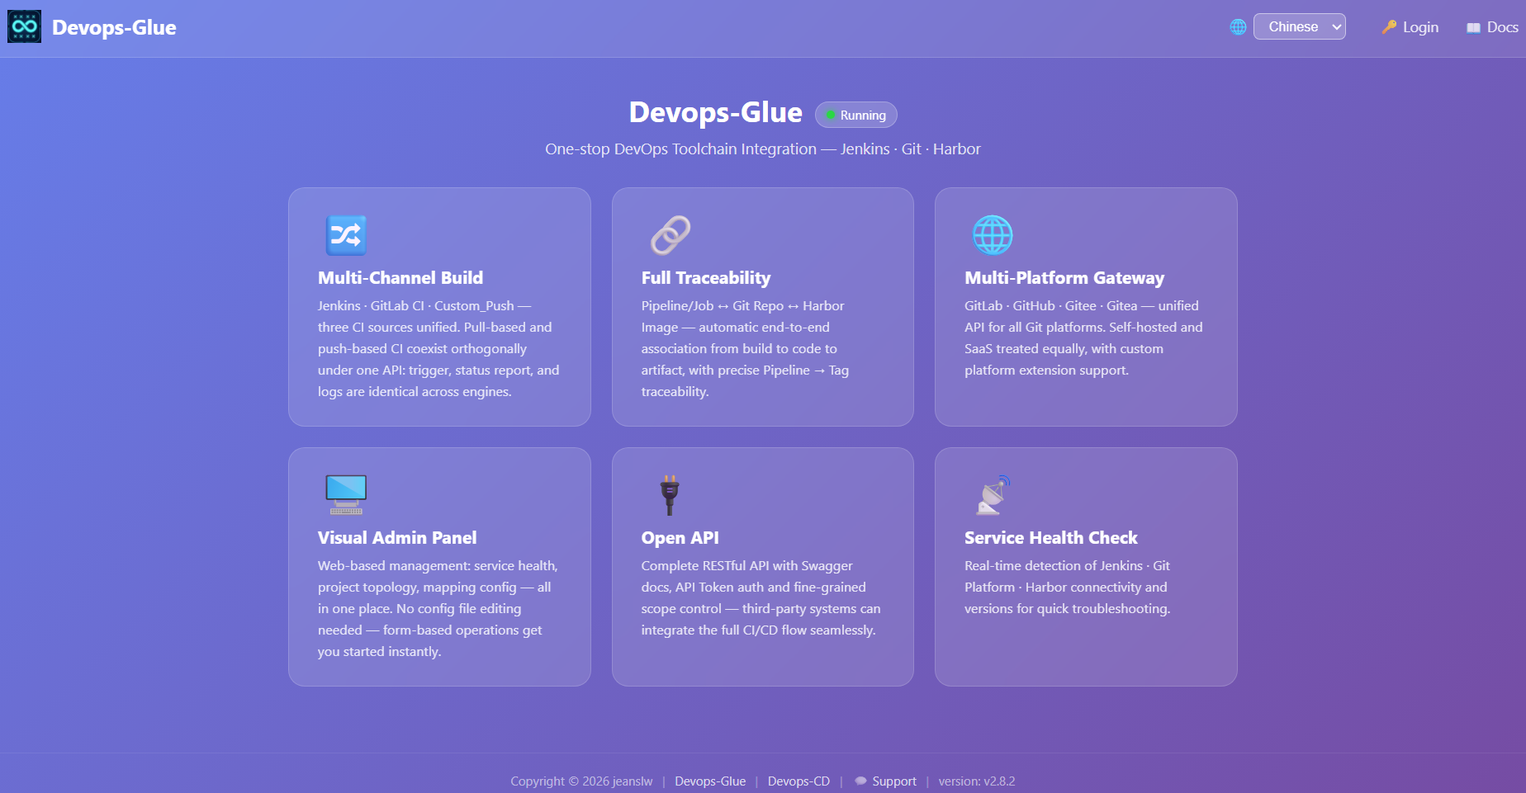
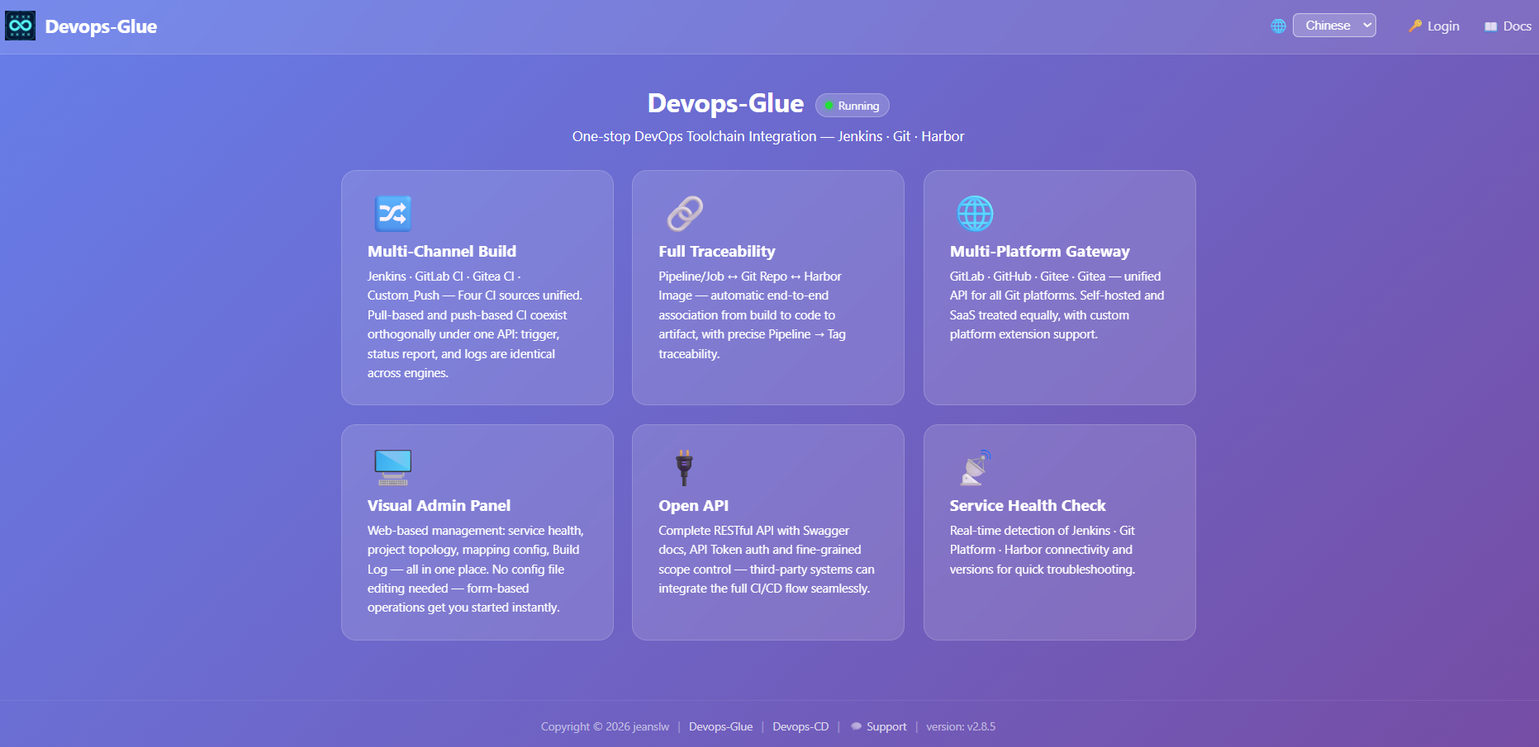
docs: 架构图四框(Gitea CI/Custom Push/User CI) + 部署拓扑/裸机部署 + 中英文 changelog + API 文档重命名
- 整体数据流图 CI 层补 Gitea CI 与 Custom Push 框、框外 User CI（中英同步）
- 部署拓扑（分布式）章节补裸机部署：cron 调度两个 CLI + nginx 配置要点
- 中英文 changelog 补 v2.8.5；管理员手册定时任务说明补容器/裸机两种分支
- API_Documents.md 重命名为 API_Reference.md（同步 Technical-Guide 引用）
- 更新系统运行截图 + 常见问题标题版本号 + 版本表格补 v2.8.4

diff --git a/docs/架构全景图.md b/docs/架构全景图.md
@@ -11,11 +11,11 @@
 ┌─────────────────────────────────────────────────────────────┐
 │                     CI 层：Devops-Glue API (PHP)            │
 │                                                             │
-│  ┌──────────────┐  ┌──────────────┐   ┌──────────────┐      │
-│  │   Jenkins    │  │  GitLab CI   │   │   自定义 CI  │      │
-│  │ BuildProvider│  │ BuildProvider│   │ BuildProvider│      │
-│  └──────┬───────┘  └──────┬───────┘   └──────┬───────┘      │
-│         └─────────────────┼─────────────────┘               │
+│  ┌──────────────┐  ┌──────────────┐   ┌──────────────┐      │  ┌───────────────┐
+│  │   Jenkins    │  │  GitLab CI   │   │   Gitea CI   │      │  │  Custom Push  │ ← User CI
+│  │ BuildProvider│  │ BuildProvider│   │ BuildProvider│      │  │ (custom_push) │   (推送方)
+│  └──────┬───────┘  └──────┬───────┘   └──────┬───────┘      │  └───────┬───────┘
+│         └─────────────────┼──────────────────┼──────────────<──────────┼          
 │                           ↓                                 │
 │              Build → Docker Image → Harbor Registry         │
 │                           ↓                                 │
@@ -65,6 +65,60 @@
 > **数据库选型**：PHP CI 和 CD Service 必须使用同一个数据库实例。
 > - **SQLite**：零配置，适合单机开发/测试。容器部署时必须将 `config/data/` 目录挂载为共享卷，确保两边进程能访问同一个 `.db` 文件。
 > - **MySQL 8.0+ / MariaDB 10.4+**：推荐生产环境使用，支持并发读写，无需共享卷。
+
+## 部署拓扑（分布式）
+
+CI Web 层**无状态**——token 鉴权（无 `$_SESSION`），所有状态都在共享数据库，因此可水平扩展。唯一需要单实例的是定时任务（`tag-cleanup` / `tag-backfill`），已拆分到独立的 worker 容器。
+
+### 单镜像、双角色
+
+`devops-glue:latest` 镜像包含全部内容（nginx + php-fpm + supervisor + 应用代码 + CLI 脚本）。同一镜像以两种角色运行，唯一区别是挂载到 `/etc/supervisor/conf.d/supervisord.conf` 的 supervisor 配置不同：
+
+| 服务 | 挂载的 supervisor 配置 | 运行的程序 | 端口 |
+|---|---|---|---|
+| `devops-glue`（web） | `supervisord.conf` | nginx + php-fpm | 8080 |
+| `devops-glue-worker`（worker） | `supervisord-worker.conf` | tag-cleanup + tag-backfill | — |
+
+两者走同一 entrypoint（`db-init` 重试 → `exec supervisord`）、共享同一数据库（SQLite 用 `data/db`，或 MySQL 实例），各自运行独立的 supervisor 进程——因此扩展 web 层绝不会复制定时任务。
+
+### 分布式定时任务锁
+
+为保证即使误起多个 worker 副本，同一时刻也只有一个实例执行，两个 CLI 脚本在执行前都会在 `cache` 表获取**租约锁**（`Database::tryAcquireLock` / `releaseLock`）：
+
+- 锁键为 `cache_key = 'lock:tag-cleanup'` / `'lock:tag-backfill'`，跨实例共享（MySQL 多实例，或 SQLite 共享单文件）。
+- 抢占时先删除已过期租约，再用普通 `INSERT` 写入自己的租约——唯一键冲突说明他者持有有效锁 → 退出 0（跳过）。
+- 租约在 TTL（600s）后自动过期，持有者崩溃也不会死锁调度；释放按 token 精确匹配，超时被接管后不会误删新持有者的锁。
+
+```
+                 devops-glue × N（nginx + php-fpm，无状态）   ← 水平扩展
+                          │
+                          ▼  共享数据库（MySQL / SQLite）
+        devops-glue-worker × 1（tag-cleanup + tag-backfill，DB 锁）
+```
+
+> **SQLite**：仍是单文件数据库——挂载一个共享 `data/db` 卷；锁经同一文件的 WAL busy-timeout 串行化。多实例真并发建议用 MySQL。
+
+### 裸机部署（Bare-metal）
+
+不依赖 Docker/supervisord 时，部署分两块：
+
+- **Web 层**：常规 nginx + php-fpm（无状态、可水平扩展）。`nginx` 的 `root` 指向项目根 `public/`（唯一入口 `index.php`），`try_files` 重写到 `index.php` 走 Slim 路由，PHP 请求经 fastcgi 转发到 php-fpm。仓库内 `config/docker/nginx.conf` 即现成模板，把容器路径 `/app` 换成实际部署路径即可。
+- **定时任务**：容器里由 worker 的 supervisord sleep-loop 驱动，裸机改用系统 cron（或 systemd timer）定时调用两个 CLI：
+
+```cron
+# 每小时清理过期 tag（对应 TAG_CLEANUP_INTERVAL，默认 3600s）
+0 * * * * www-data php /opt/devops-glue/cli/cleanup-pipeline-tags.php >> /var/log/devops-glue/tag-cleanup.log 2>&1
+# 每 30 分钟回填日志 tag（对应 TAG_BACKFILL_INTERVAL，默认 1800s）
+*/30 * * * * www-data php /opt/devops-glue/cli/backfill-pipeline-tags.php >> /var/log/devops-glue/tag-backfill.log 2>&1
+```
+
+注意事项：
+
+- **开关默认关闭**：两任务受后台开关 `stale_tag_cleanup_enabled` / `backfill_tag_enabled` 控制（默认关），须先在「平台配置」页开启，否则 CLI 打印「跳过」并退出 0。
+- **运行用户**：须与 Web 进程（php-fpm）同用户（如 `www-data`），否则 root 先跑会创建 root 属主的 SQLite 库文件，导致 Web 侧写入失败。
+- **env 加载**：CLI 经 `cli/bootstrap.php` 自动加载 `config/app.env`（路径相对 `__DIR__`，不依赖工作目录），crontab 无需 `cd`。
+- **分布式锁兜底**：CLI 内置 `cache` 表租约锁，即使误配多份 cron 或与容器 worker 混跑，同一时刻也只一个实例执行，抢不到锁直接退出 0。
+- **日志目录**：重定向的日志目录须对运行用户可写。
 
 ## CI 构建模式：Pull-based 与 Push-based
 

diff --git a/docs/ARCHITECTURE.md b/docs/ARCHITECTURE.md
@@ -12,8 +12,8 @@
 │                  CI LAYER：Devops-Glue API (PHP)            │
 │                                                             │
 │  ┌──────────────┐  ┌──────────────┐   ┌──────────────┐      │  ┌───────────────┐
-│  │   Jenkins    │  │  GitLab CI   │   │   Gitea CI   │      │  │  Custom Push  │
-│  │ BuildProvider│  │ BuildProvider│   │ BuildProvider│      │  │               │
+│  │   Jenkins    │  │  GitLab CI   │   │   Gitea CI   │      │  │  Custom Push  │ ← User CI
+│  │ BuildProvider│  │ BuildProvider│   │ BuildProvider│      │  │ (custom_push) │  (pusher)
 │  └──────┬───────┘  └──────┬───────┘   └──────┬───────┘      │  └───────┬───────┘
 │         └─────────────────┼──────────────────┼──────────────<──────────┼          
 │                           ↓                                 │
@@ -64,6 +64,60 @@
 > **Database Selection**: PHP CI and CD Service must use the same database instance.
 > - **SQLite**: Zero-configuration, suitable for single-host development/testing. For container deployments, mount the `config/data/` directory as a shared volume so both processes can access the same `.db` file.
 > - **MySQL 8.0+ / MariaDB 10.4+**: Recommended for production. Supports concurrent reads and writes, no shared volume required.
+
+## Deployment Topology (Distributed)
+
+The CI web layer is **stateless** — token auth (no `$_SESSION`), all state in the shared DB — so it can scale out horizontally. The only single-instance part is the scheduled timer jobs (`tag-cleanup` / `tag-backfill`), moved into a dedicated worker container.
+
+### Single image, two roles
+
+The `devops-glue:latest` image carries everything (nginx + php-fpm + supervisor + app code + CLI scripts). The same image runs as two roles, distinguished only by which supervisor config is bind-mounted onto `/etc/supervisor/conf.d/supervisord.conf`:
+
+| Service | Mounted supervisor config | Programs it runs | Port |
+|---|---|---|---|
+| `devops-glue` (web) | `supervisord.conf` | nginx + php-fpm | 8080 |
+| `devops-glue-worker` (worker) | `supervisord-worker.conf` | tag-cleanup + tag-backfill | — |
+
+Both run the same entrypoint (`db-init` retry → `exec supervisord`) and share the same DB (`data/db` for SQLite, or the MySQL instance), each under its own supervisor process — so scaling the web layer never duplicates the timers.
+
+### Distributed timer lock
+
+To guarantee at-most-one timer run even if several worker replicas are started, both CLI scripts take a **lease lock in `cache`** (`Database::tryAcquireLock` / `releaseLock`) before doing work:
+
+- Key is `cache_key = 'lock:tag-cleanup'` / `'lock:tag-backfill'`, shared across instances (MySQL multi-instance, or a shared SQLite file).
+- Acquisition deletes expired leases, then `INSERT`s its own — a PK conflict means another instance holds a valid lease → exit 0 ("skip").
+- The lease auto-expires after its TTL (600s), so a crashed holder can't deadlock the schedule; release is token-scoped so a timeout-takeover can't delete the new holder's lock.
+
+```
+                 devops-glue × N  (nginx + php-fpm, stateless)   ← scale out
+                          │
+                          ▼   shared DB (MySQL / SQLite)
+        devops-glue-worker × 1  (tag-cleanup + tag-backfill, DB lock)
+```
+
+> **SQLite**: still a single file — mount one shared `data/db` volume; the lock serializes via the same file's WAL busy-timeout. For true multi-instance concurrency, use MySQL.
+
+### Bare-metal Deployment
+
+Without Docker/supervisord, deployment has two parts:
+
+- **Web layer**: regular nginx + php-fpm (stateless, horizontally scalable). Point `nginx` `root` at the project's `public/` (the single entry point `index.php`), `try_files`-rewrite to `index.php` for Slim routing, and fastcgi-forward PHP requests to php-fpm. The repo's `config/docker/nginx.conf` is a ready-made template — just replace the container path `/app` with your deploy path.
+- **Timer jobs**: in containers the worker's supervisord sleep-loop drives them; on bare metal, schedule the two CLIs from system cron (or a systemd timer):
+
+```cron
+# hourly: clean up stale tags (matches TAG_CLEANUP_INTERVAL, default 3600s)
+0 * * * * www-data php /opt/devops-glue/cli/cleanup-pipeline-tags.php >> /var/log/devops-glue/tag-cleanup.log 2>&1
+# every 30 min: backfill log-derived tags (matches TAG_BACKFILL_INTERVAL, default 1800s)
+*/30 * * * * www-data php /opt/devops-glue/cli/backfill-pipeline-tags.php >> /var/log/devops-glue/tag-backfill.log 2>&1
+```
+
+Notes:
+
+- **Switches default off**: both jobs are gated by `stale_tag_cleanup_enabled` / `backfill_tag_enabled` (default off); enable them on the platform-config page first, otherwise the CLI prints "skip" and exits 0.
+- **Run user**: use the same user as the web process (php-fpm, e.g. `www-data`); otherwise root running first creates a root-owned SQLite file and the web side fails to write.
+- **env loading**: the CLI auto-loads `config/app.env` via `cli/bootstrap.php` (paths relative to `__DIR__`, no cwd dependence), so no `cd` is needed in crontab.
+- **Distributed lock safety**: the CLI has a built-in `cache`-table lease lock, so even misconfigured duplicate crons (or mixing with a container worker) run at most one instance at a time; losing the lock just exits 0.
+- **Log dir**: the redirected log directory must be writable by the run user.
 
 ## CI Build Modes: Pull-based vs Push-based
 

diff --git a/README.md b/README.md
@@ -54,18 +54,18 @@ DevOps-Glue API is a Slim 4–based integration platform designed to enhance Dev
 
 ```
 ┌─────────────────────────────────────────────────────────────┐
-│                      CODE PUSH                              │
+│                        CODE PUSH                            │
 │  GitLab / Gitee / GitHub / Gitea  →  Webhook Trigger        │
 └──────────────────────────┬──────────────────────────────────┘
                            ↓
 ┌─────────────────────────────────────────────────────────────┐
-│                     CI LAYER: Devops-Glue API (PHP)         │
+│                  CI LAYER：Devops-Glue API (PHP)            │
 │                                                             │
-│  ┌──────────────┐  ┌──────────────┐   ┌──────────────┐      │
-│  │   Jenkins    │  │  GitLab CI   │   │   Custom CI  │      │
-│  │ BuildProvider│  │ BuildProvider│   │ BuildProvider│      │
-│  └──────┬───────┘  └──────┬───────┘   └──────┬───────┘      │
-│         └─────────────────┼──────────────────┘              │
+│  ┌──────────────┐  ┌──────────────┐   ┌──────────────┐      │  ┌───────────────┐
+│  │   Jenkins    │  │  GitLab CI   │   │   Gitea CI   │      │  │  Custom Push  │ ← User CI
+│  │ BuildProvider│  │ BuildProvider│   │ BuildProvider│      │  │ (custom_push) │  (pusher)
+│  └──────┬───────┘  └──────┬───────┘   └──────┬───────┘      │  └───────┬───────┘
+│         └─────────────────┼──────────────────┼──────────────<──────────┼          
 │                           ↓                                 │
 │              Build → Docker Image → Harbor Registry         │
 │                           ↓                                 │
@@ -73,19 +73,19 @@ DevOps-Glue API is a Slim 4–based integration platform designed to enhance Dev
 └──────────────────────────┬──────────────────────────────────┘
                            ↓
 ┌─────────────────────────────────────────────────────────────┐
-│                     CD LAYER: cd_service (Python)           │
+│                  CD LAYER：cd_service (Python)              │
 │                                                             │
 │   Select Project + Tag  ──→  Deploy Execution               │
 │                                                             │
 │   ┌──────────────┐  ┌──────────────┐  ┌──────────────┐      │
-│   │  SSH Script  │  │Docker Compose│  │  Kubernetes  │      │
+│   │ SSH Script   │  │Docker Compose│  │  Kubernetes  │      │
 │   │  Ansible     │  │  SFTP + up   │  │ kubectl/Helm │      │
 │   │              │  │              │  │ ArgoCD/FluxCD│      │
 │   └──────────────┘  └──────────────┘  └──────────────┘      │
 │                           ↓                                 │
 │              cd_deploy_logs (Deployment Records)            │
 │                           ↓                                 │
-│              DingTalk / WeCom Webhook Notifications         │
+│            DingTalk / WeCom Webhook Notifications           │
 └─────────────────────────────────────────────────────────────┘
 ```
 </details>
@@ -138,7 +138,7 @@ See [docs/ADMIN_MANUAL.md](docs/ADMIN_MANUAL.md) for full environment variable r
 
 | Document | Language | Description |
 |----------|----------|-------------|
-| [API Reference](docs/API_Documents.md) | EN | API endpoints, request/response formats, quick tests |
+| [API Reference](docs/API_Reference.md) | EN | API endpoints, request/response formats, quick tests |
 | [ARCHITECTURE](docs/ARCHITECTURE.md) | EN | Overall data flow, component relationships, deployment pattern matrix|
 | [Admin Manual](docs/ADMIN_MANUAL.md) | EN | Environment variables, mapping config, custom Git platform |
 | [User Manual](docs/USER_MANUAL.md) | EN | User Guide|

diff --git a/docs/CHANGELOG.md b/docs/CHANGELOG.md
@@ -1,5 +1,11 @@
 # Changelog
 
+## v2.8.5 (2026-09-22)
+- **Distributed-deployment support (timer split)** — The stateless web layer is now separated from the scheduled timer jobs so it can scale out safely. `supervisord.conf` keeps only nginx + php-fpm; a new `supervisord-worker.conf` runs just `tag-cleanup` / `tag-backfill`, and docker-compose gains a `devops-glue-worker` service that reuses the same `devops-glue:latest` image (same entrypoint, only a different supervisor config bind-mounted onto the same path; no port).
+- **Distributed timer lock** — `Database::tryAcquireLock()` / `releaseLock()` add a lease lock backed by the `cache` table (`cache_key` PK), so the timers run at most once across multiple worker replicas (MySQL multi-instance or a shared SQLite file). Acquisition deletes expired leases then does a plain `INSERT` (a PK conflict means the lock is held → exit 0 "skip"); release is token-scoped so a timeout-takeover can't delete the new holder's lease; the lease auto-expires via TTL (600s) so a crashed holder can't deadlock the schedule. Both `cli/cleanup-pipeline-tags.php` and `cli/backfill-pipeline-tags.php` acquire/release the lock around the work phase.
+- **Documentation** — Architecture docs (CN/EN) document the single-image/two-role container split and the distributed timer lock.
+- **Versioning** — `APP_VERSION` bumped to 2.8.5; OpenAPI `version` synced (CN/EN).
+
 ## v2.8.4 (2026-09-20)
 - **Image Tag column for pull records** — Pull-type build records (jobs list / pipelines) gain an "Image Tag" column, projected from the harbor-scan writeback success onto `ci_pipeline_artifacts`.
 - **Log-derived tag fallback** — When the canonical artifact tag has not been written back yet, the build log is lazily parsed to derive the image tag using configurable keywords (multi-keyword, `|`-separated). The result is cached in `ci_pipeline_build_log` (`source='log'`) together with the canonical identity (`provider` / `project_id`) and Harbor `repository`, so it can be promoted later without re-resolving the provider.

diff --git a/docs/更新日志.md b/docs/更新日志.md
@@ -1,5 +1,11 @@
 # 更新日志
 
+## v2.8.5 (2026-09-22)
+- **分布式部署支持（定时任务拆分）** — 无状态 Web 层与定时任务分离，可安全水平扩展。`supervisord.conf` 只保留 nginx + php-fpm；新增 `supervisord-worker.conf` 只跑 `tag-cleanup` / `tag-backfill`；docker-compose 新增 `devops-glue-worker` 服务，复用同一 `devops-glue:latest` 镜像（同一 entrypoint，仅挂载到同一路径的 supervisor 配置不同；不映射端口）。
+- **分布式定时任务锁** — `Database::tryAcquireLock()` / `releaseLock()` 基于 `cache` 表（`cache_key` 主键）新增租约锁，保证多 worker 副本下定时任务至多一个实例执行（MySQL 多实例或 SQLite 共享单文件）。抢占先删过期租约再普通 `INSERT`（唯一键冲突即锁被持有 → 退出 0「跳过」）；释放按 token 精确匹配，超时被接管后不会误删新持有者的锁；租约经 TTL（600s）自动过期，持有者崩溃不会死锁调度。`cli/cleanup-pipeline-tags.php` 与 `cli/backfill-pipeline-tags.php` 均在执行阶段前后获取/释放锁。
+- **文档** — 架构文档（中/英）补充单镜像/双角色容器拆分与分布式定时任务锁说明。
+- **版本号** — `APP_VERSION` 升级至 2.8.5；OpenAPI `version` 字段同步（中英双份）。
+
 ## v2.8.4 (2026-09-20)
 - **拉取式记录「镜像 Tag」列** — 拉取式构建记录（jobs 列表 / pipelines）新增「镜像 Tag」列，由 harbor-scan 回写成功结果投影到 `ci_pipeline_artifacts`。
 - **日志法兜底推导 tag** — 当 canonical artifact 尚未回写 tag 时，按可配置关键字（多关键字，`|` 分隔）懒解析构建日志推导镜像 tag，结果连同 canonical 身份（`provider` / `project_id`）与 Harbor `repository` 缓存在 `ci_pipeline_build_log`（`source='log'`），便于后续无需重解析 provider 即可回填。

diff --git a/docs/ADMIN_MANUAL.md b/docs/ADMIN_MANUAL.md
@@ -38,6 +38,7 @@ Devops-Glue API is a Slim4-based unified API layer that provides a single manage
 
 | Devops-Glue API | Devops-Glue CD |
 |:---:|:---:|
+| v2.8.5 | v1.5.x |
 | v2.8.4 | v1.5.x |
 | v2.8.3 | v1.5.x |
 | v2.8.2 | v1.5.x |
@@ -318,7 +319,7 @@ The related settings live on the **System Settings → Platform Config** page:
 - **Enable stale-tag cleanup** (`stale_tag_cleanup_enabled`): periodically removes tags from `ci_pipeline_artifacts` that no longer exist in Harbor (Harbor is the source of truth; an unreachable/unconfigured Harbor is skipped safely — never a wrong delete).
 - **Image-tag log backfill** (`backfill_tag_enabled`): periodically promotes log-derived tags into the canonical `ci_pipeline_artifacts` — **only after Harbor explicitly confirms the tag exists**, and only filling gaps where no tag exists yet; it never overwrites the authoritative scan-sync result. Off by default.
 
-Both cron jobs are driven by the container's supervisord sleep-loop (no system cron needed); their intervals are overridable via the root `app.env` vars `TAG_CLEANUP_INTERVAL` (default 3600s) / `TAG_BACKFILL_INTERVAL` (default 1800s).
+Both cron jobs are driven by the container's supervisord sleep-loop (no system cron needed); their intervals are overridable via the root `app.env` vars `TAG_CLEANUP_INTERVAL` (default 3600s) / `TAG_BACKFILL_INTERVAL` (default 1800s). **On bare metal** (no supervisord), schedule the two CLIs with system cron instead — see the "Bare-metal Deployment" section in the architecture doc.
 
 > If a record's log-derived tag was parsed incorrectly (e.g. it picked up the previous build's tag), the **↻ Re-parse** button next to that tag force-re-parses it (skips the cache and re-extracts by the current build number).
 

diff --git a/docs/Technical-Guide.md b/docs/Technical-Guide.md
@@ -727,7 +727,7 @@ The system uses a role-based access control (RBAC) model with **all tables store
 | POST | `/api/admin/api_tokens/{id}/revoke` | Revoke a token (soft delete, disable and keep the record) | super_admin |
 | DELETE | `/api/admin/api_tokens/{id}` | Delete a token (hard delete) | super_admin |
 
-> API tokens are sent via the standard `Authorization: Bearer <token>` header, independent of RBAC, and carry scopes directly; `/api/admin/*` admin endpoints are always fail-closed (403) for API tokens. See [API_Documents.md](API_Documents.md), "API Token Management".
+> API tokens are sent via the standard `Authorization: Bearer <token>` header, independent of RBAC, and carry scopes directly; `/api/admin/*` admin endpoints are always fail-closed (403) for API tokens. See [API_Reference.md](API_Reference.md), "API Token Management".
 
 **Implied-relation expansion logic** (`expandPermissions()`):
 ```php

diff --git a/docs/常见问题.md b/docs/常见问题.md
@@ -1,4 +1,4 @@
-# Devops-Glue API 常见问题 FAQ v2.7.0
+# Devops-Glue API 常见问题 FAQ v2.8.0
 
 ## 目录
 
